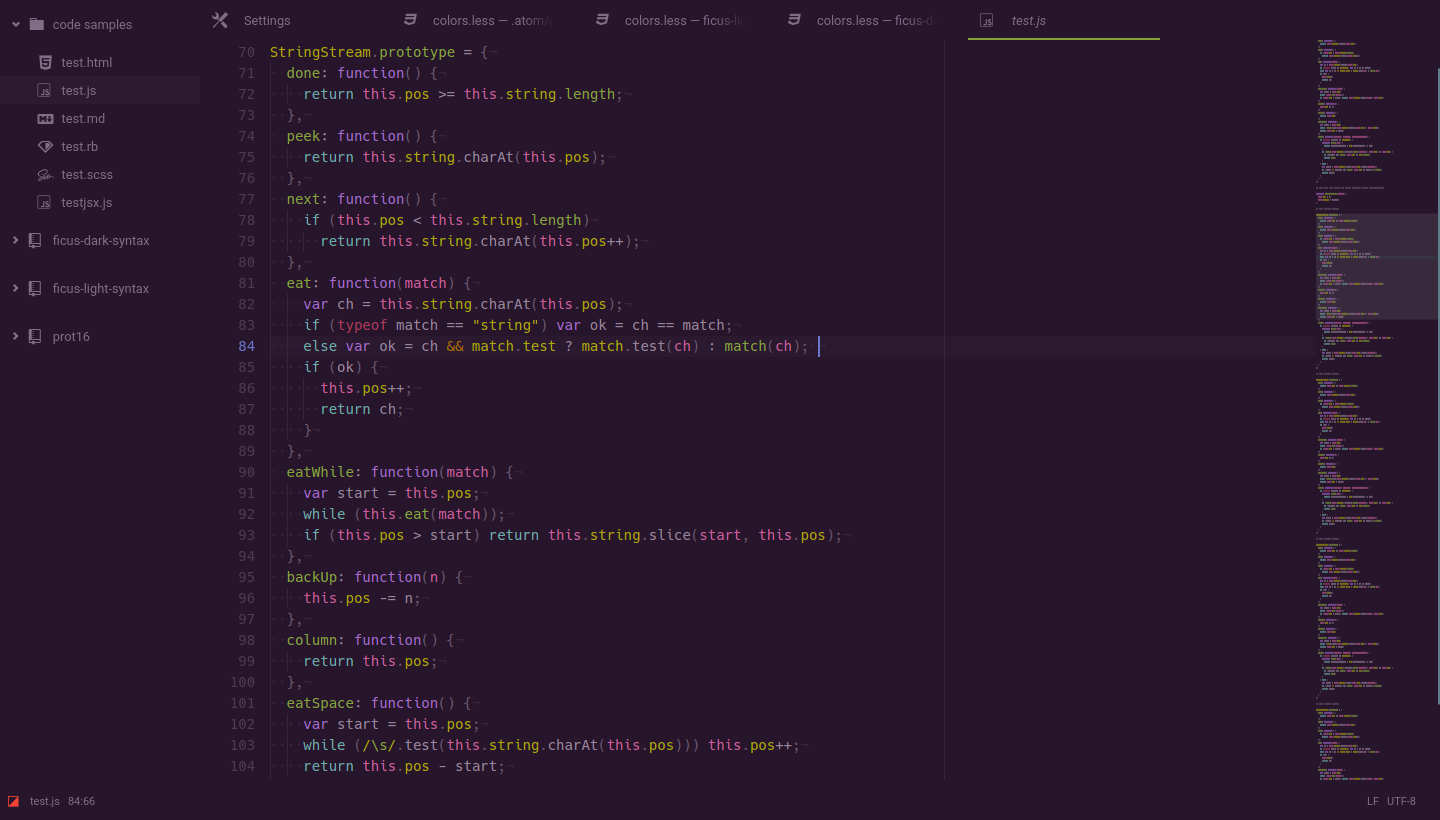
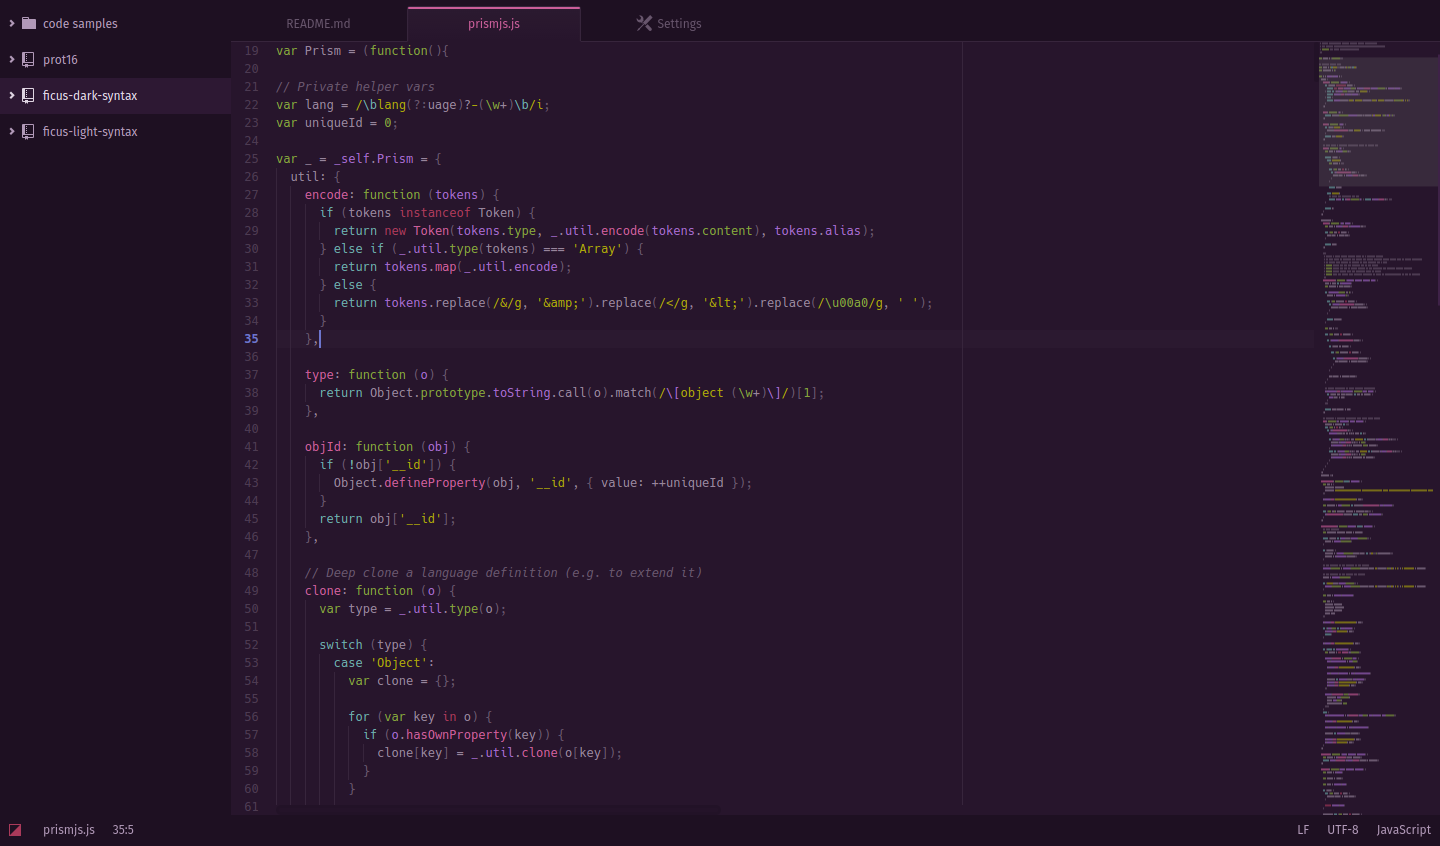
Update Ficus screenshots and readme.

diff --git a/ficus/README.md b/ficus/README.md
@@ -1,5 +1,10 @@
-# Ficus website theme
+# Ficus theme
 
 A high contrast theme. The most prevalent colours are variants of magenta, violet, green, yellow, and cyan.
 
 Project page: [http://www.protesilaos.com/ficus](http://www.protesilaos.com/ficus)
+
+## Atom syntax themes
+
+Ficus light: [https://atom.io/themes/ficus-syntax](https://atom.io/themes/ficus-syntax)
+Ficus dark: [https://atom.io/themes/ficus-dark-syntax](https://atom.io/themes/ficus-dark-syntax)
